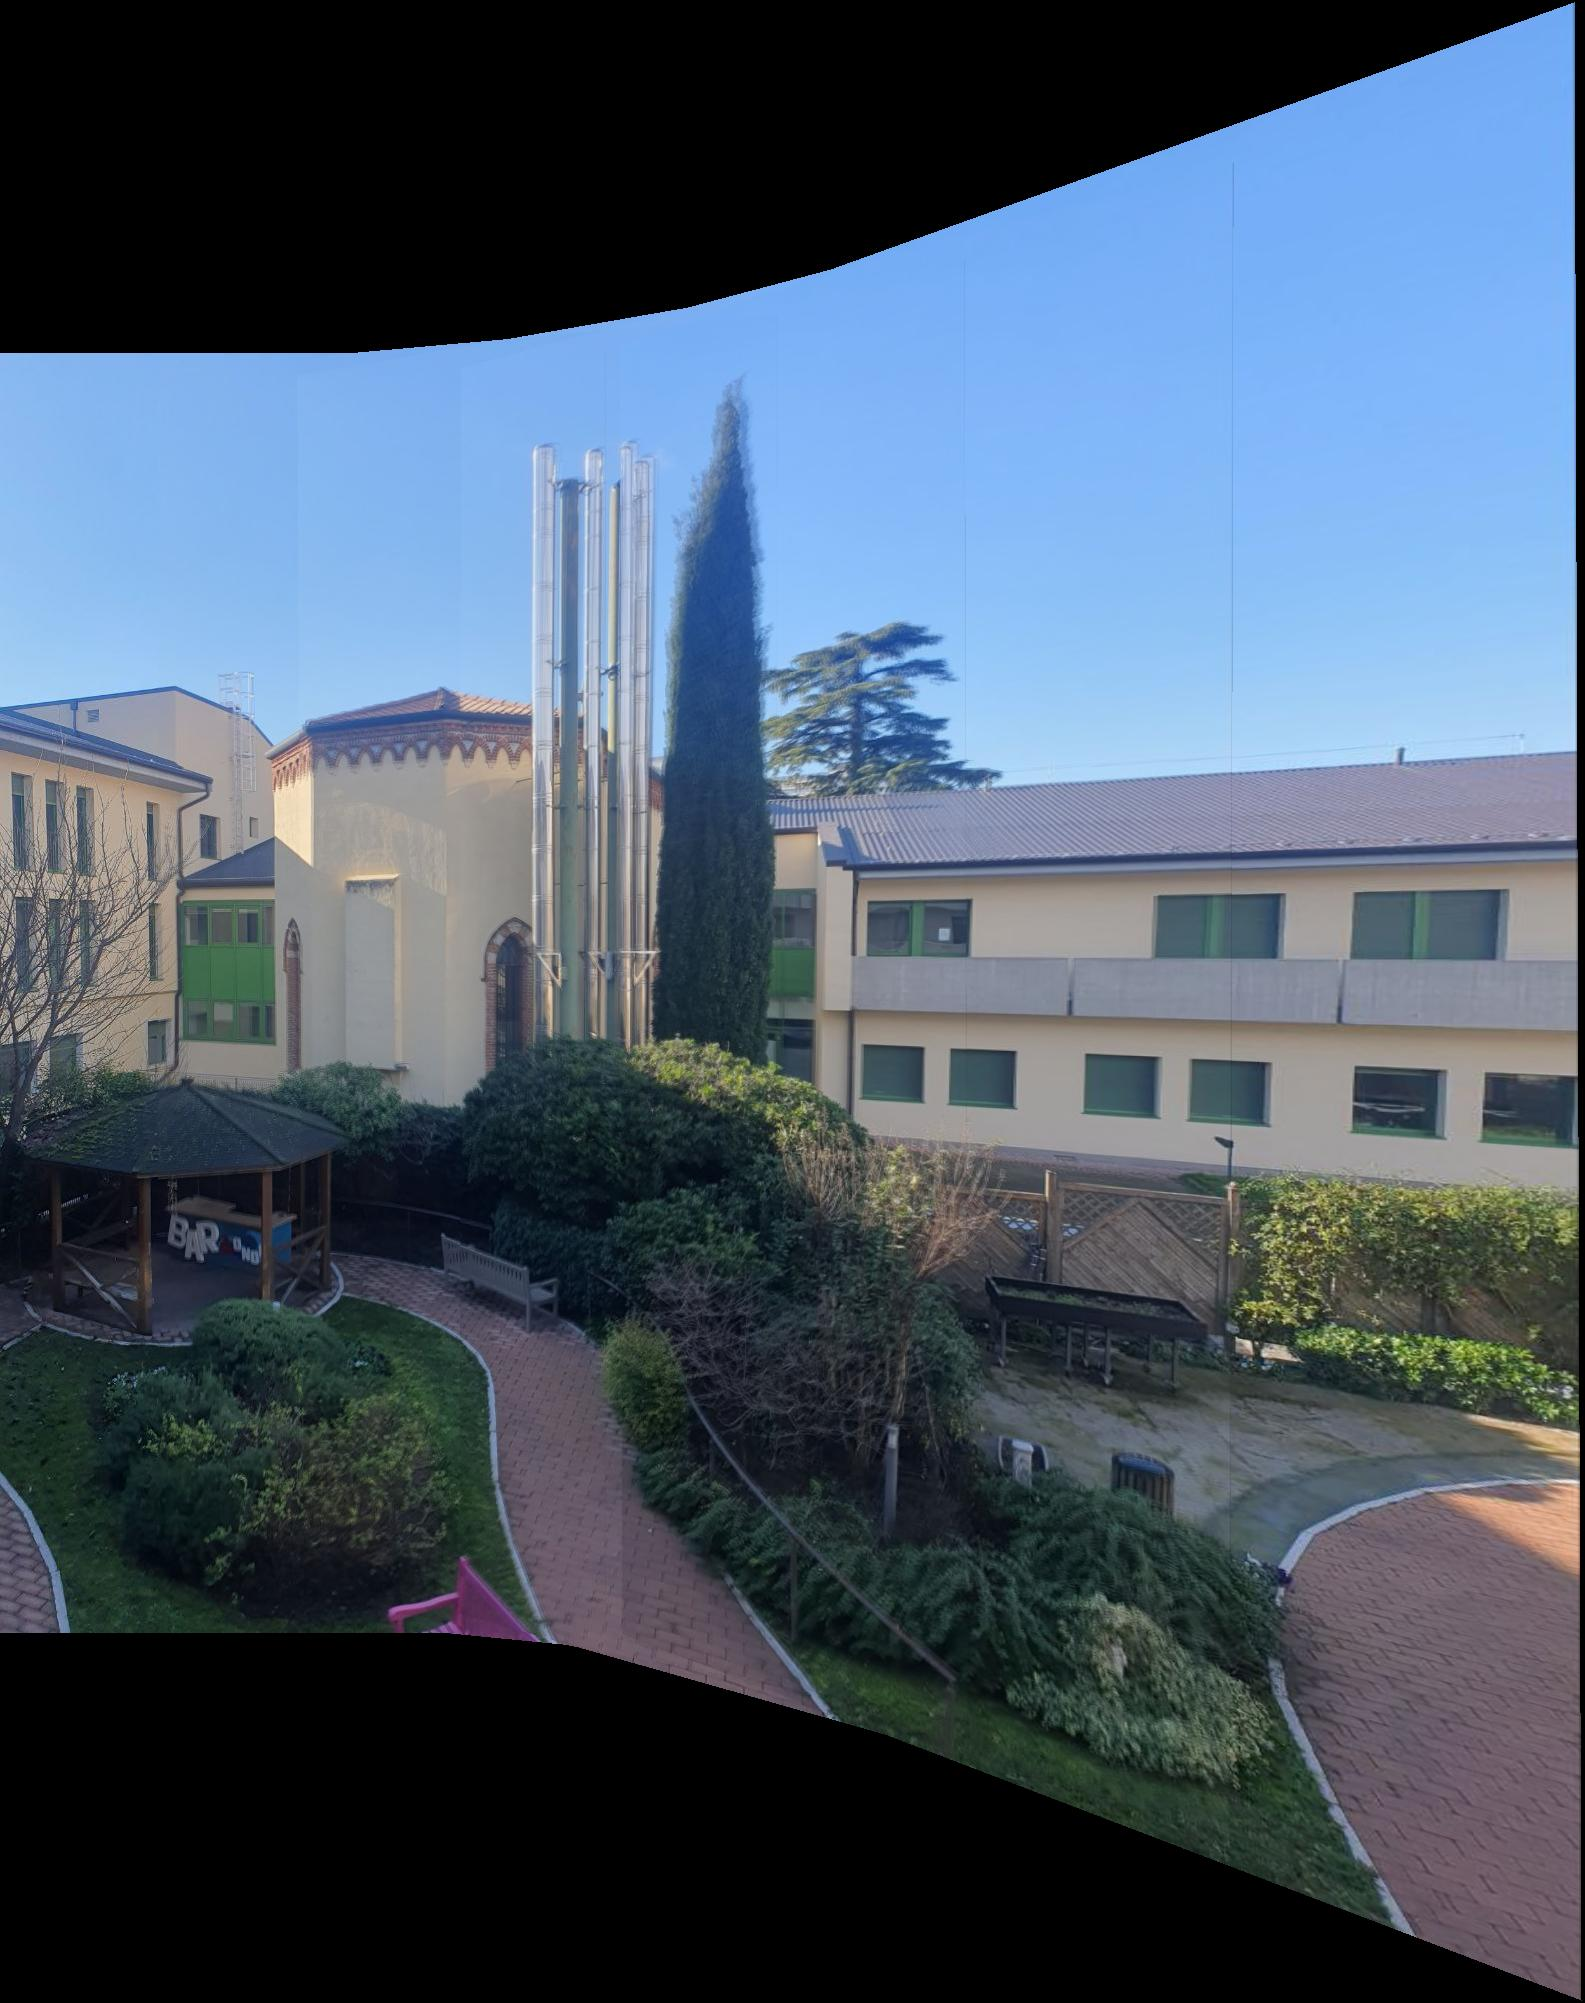
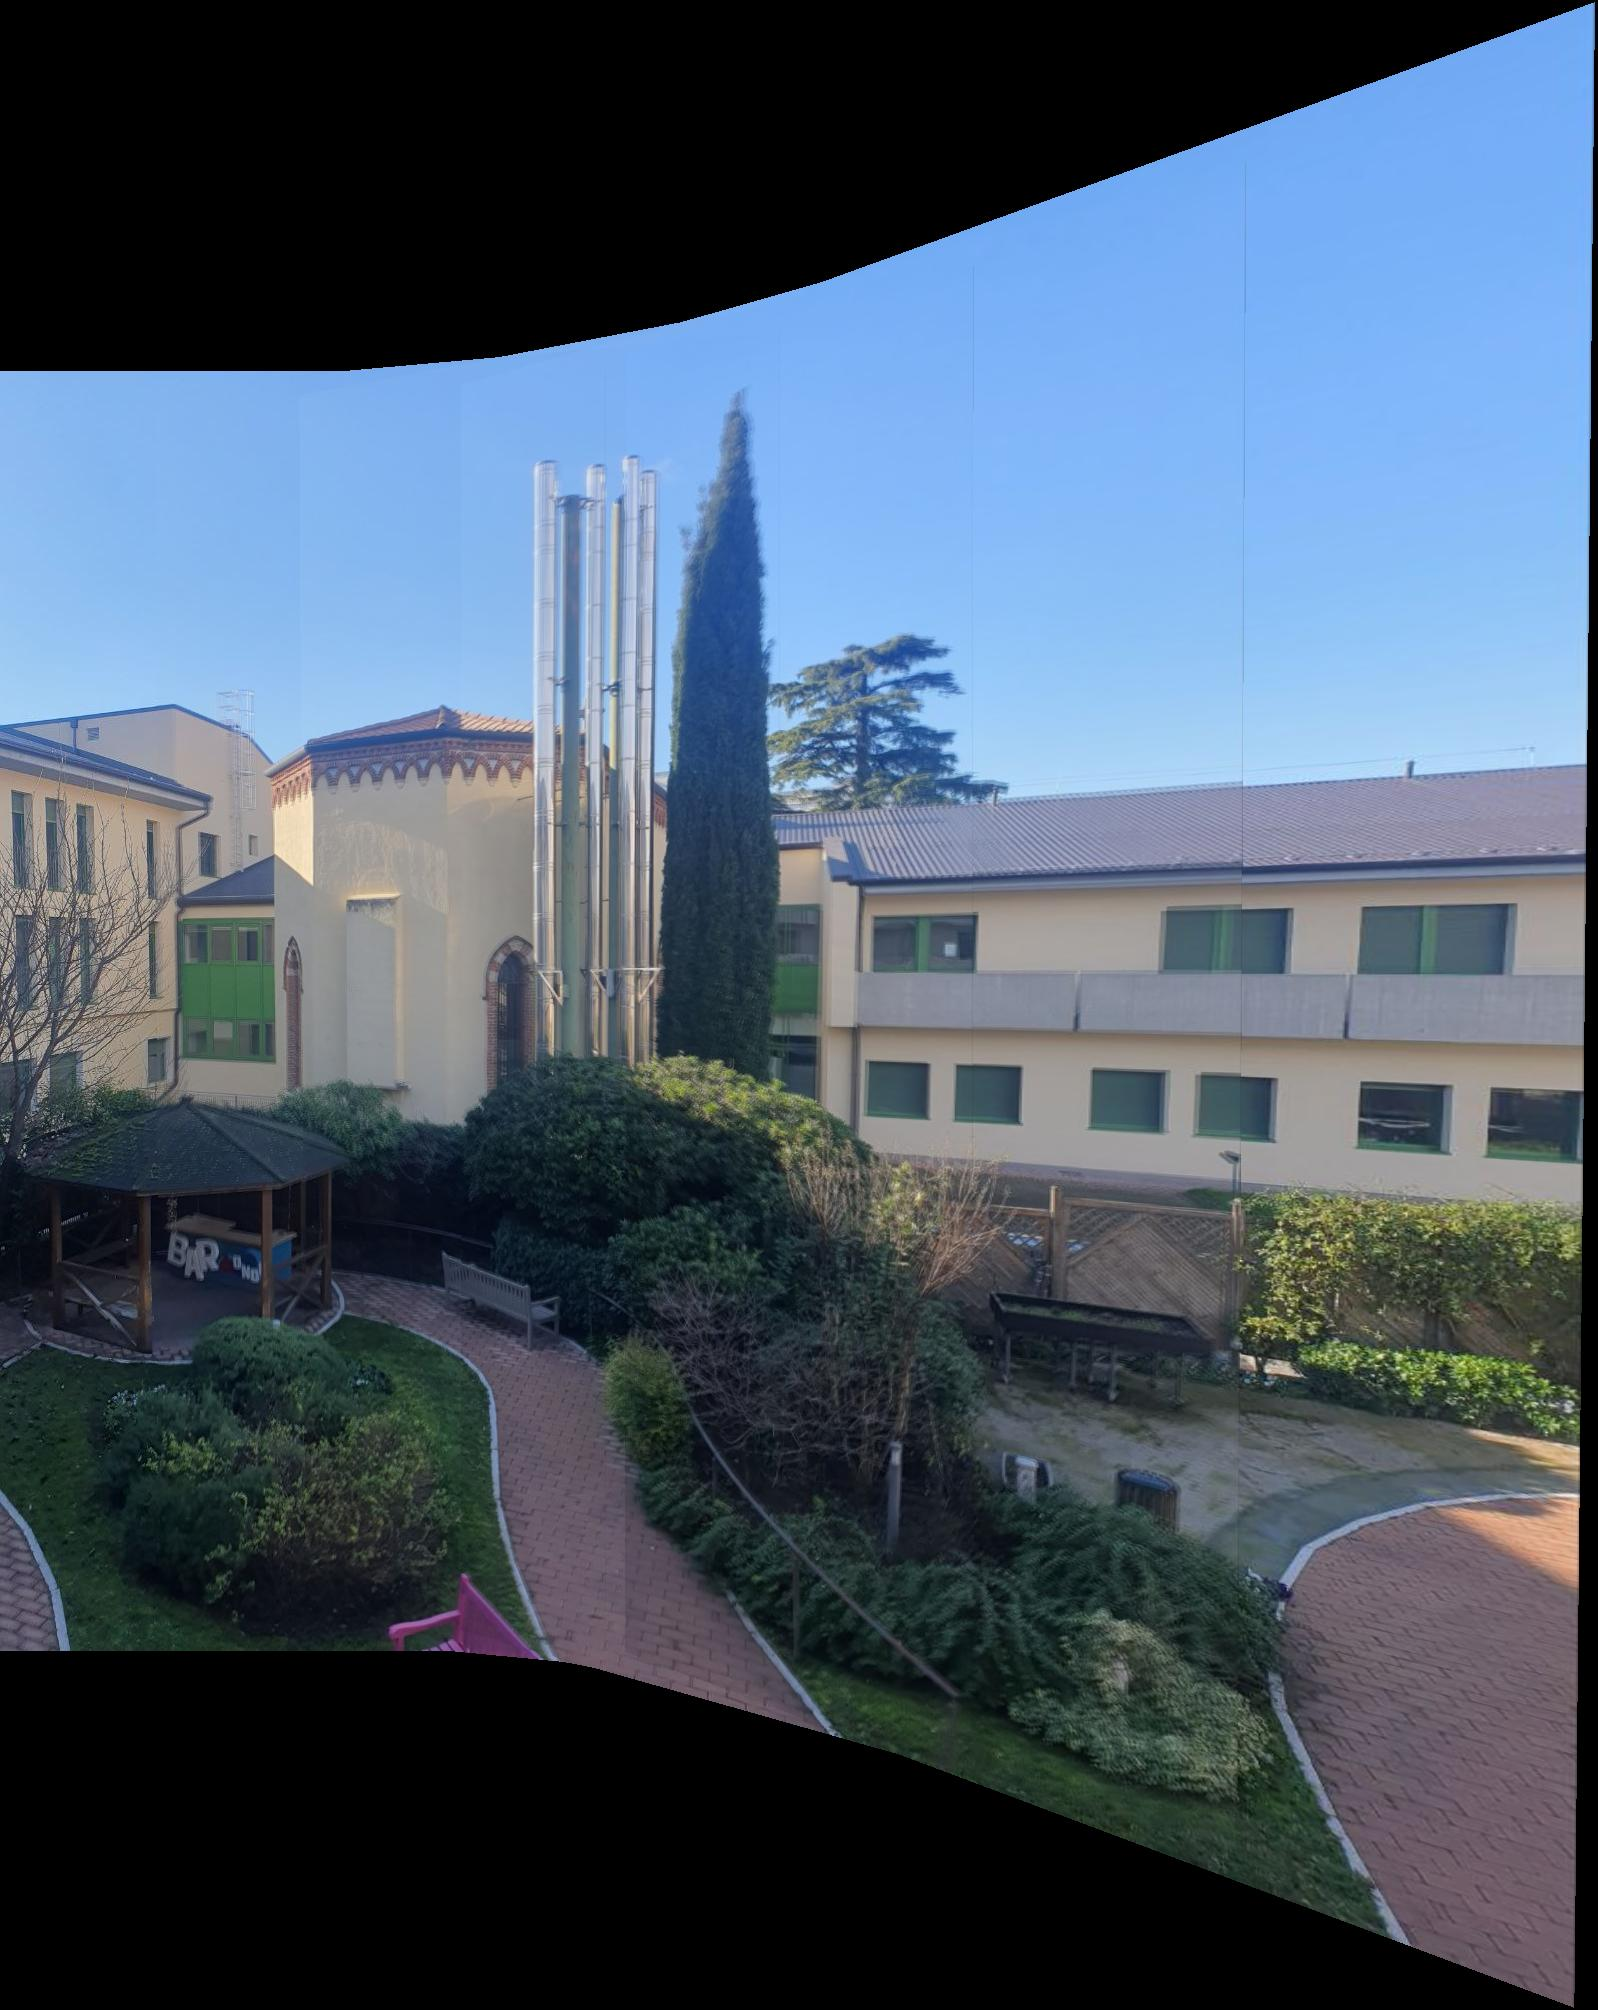
Image blending

diff --git a/scripts/image_merge.m b/scripts/image_merge.m
@@ -7,9 +7,10 @@
 %   Author: Lorenzo Busellato, VR472249, 2023
 %
 %--------------------------------------------------------------------------
-function I = image_merge(img1_rgb, img2_rgb, H)
+function I = image_merge(img1_rgb, img2_rgb, H, params)
     % Loop over the three image channels
     for i = 1:size(img1_rgb,3)
+        % Get the i-th color channel
         img1 = img1_rgb(:,:,i);
         img2 = img2_rgb(:,:,i);
         % Warping the second image to the plane of the first one
@@ -21,42 +22,41 @@ function I = image_merge(img1_rgb, img2_rgb, H)
         bb_ij = [bb(2); bb(1); bb(4); bb(3)];
         % Group the coordinates of the warped and original images' bbs
         corners = [bb_ij [0; 0; size(img1)']];
-        % Compute the minimum and maximum coordinates of the two bbs to get the
-        % coordinates of the total bb
+        % Compute the minimum and maximum coordinates of the two bbs to get the coordinates of the total bb
         bb_mos = [min(corners(1, :)); min(corners(2, :));
             max(corners(3, :)); max(corners(4, :))];
-        % Apply positive offset to remove negative coordinates
+        % Offset of the first image within the mosaic
         offs = [abs(min(corners(1, :))); abs(min(corners(2, :)))];
         sz_mos = bb_mos + [offs; offs];
         % Create the two parts of the mosaicing
         mosaic_ref = zeros(sz_mos(3), sz_mos(4));
         mosaic_mov = mosaic_ref;
-        % Place the original image and the warped image into the two parts
-        % according to the offsets
+        % Place the original image and the warped image into the two parts of the mosaic
         if offs(1) > 0
             if offs(2) > 0
-                mosaic_ref(offs(1):(size(img1,1)+offs(1)-1),offs(2):(size(img1,2)+offs(2)-1))=img1(:,:);
-                mosaic_mov(1:(size(img2_warp,1)),1:size(img2_warp,2))=img2_warp(:,:);
+                mosaic_ref(offs(1):(size(img1,1)+offs(1)-1),offs(2):(size(img1,2)+offs(2)-1))=img1;
+                mosaic_mov(1:(size(img2_warp,1)),1:size(img2_warp,2))=img2_warp;
             else
-                mosaic_ref(offs(1):(size(img1,1)+offs(1)-1),1:size(img1,2))=img1(:,:);
-                mosaic_mov(1:size(img2_warp,1),abs(bb_ij(2)):(size(img2_warp,2)+abs(bb_ij(2))-1))=img2_warp(:,:);
+                mosaic_ref(offs(1):(size(img1,1)+offs(1)-1),1:size(img1,2))=img1;
+                mosaic_mov(1:size(img2_warp,1),abs(bb_ij(2)):(size(img2_warp,2)+abs(bb_ij(2))-1))=img2_warp;
             end
         else
             if offs(2) > 0
-                mosaic_ref(1:size(img1,1),offs(2):(size(img1,2)+offs(2)-1))=img1(:,:);
-                mosaic_mov(bb_ij(1):(size(img2_warp,1)+bb_ij(1)-1),1:size(img2_warp,2))=img2_warp(:,:);
+                mosaic_ref(1:size(img1,1),offs(2):(size(img1,2)+offs(2)-1))=img1;
+                mosaic_mov(bb_ij(1):(size(img2_warp,1)+bb_ij(1)-1),1:size(img2_warp,2))=img2_warp;
             else
-                mosaic_ref(1:size(img1,1),1:size(img1,2))=img1(:,:);
-                mosaic_mov(bb_ij(1):(size(img2_warp,1)+bb_ij(1)-1),bb_ij(2):(size(img2_warp,2)+bb_ij(2)-1))=img2_warp(:,:);
+                mosaic_ref(1:size(img1,1),1:size(img1,2))=img1;
+                mosaic_mov(bb_ij(1):(size(img2_warp,1)+bb_ij(1)-1),bb_ij(2):(size(img2_warp,2)+bb_ij(2)-1))=img2_warp;
             end
         end
-        % Create a binary mask to get the overlapping between the images
+        % Compose the images
+        tmp = mosaic_ref + mosaic_mov;
+        % Get a mask for the overlapping part
         mask_ref = mosaic_ref ~= 0;
         mask_mov = mosaic_mov ~= 0;
         mask = mask_ref & mask_mov;
-        tmp = mosaic_ref + mosaic_mov;
-        % Blending by averaging pixel values in the overlap region
-        tmp(mask) = tmp(mask) * 0.5;
+        % Blend the overlap by taking the weighted average of the images intensities
+        tmp(mask) = (1-params.alpha).*mosaic_ref(mask) + params.alpha.*mosaic_mov(mask);
         I(:,:,i) = tmp;
     end
 end

diff --git a/scripts/ransac_homography.m b/scripts/ransac_homography.m
@@ -19,7 +19,7 @@ function H = ransac_homography(feat1, feat2, matches, params)
     f = waitbar(0, 'RANSAC - homograpy'); % Progress bar
     for i = 1:params.ransac_iter
         waitbar(i/params.ransac_iter, f, sprintf('RANSAC - homography: %d %%', floor(i/params.ransac_iter*100)));
-        % Pick 4 random features
+        % Pick 4 random features and correspondences
         r1 = ceil(rand*length(matches));
         r2 = ceil(rand*length(matches));
         r3 = ceil(rand*length(matches));

diff --git a/scripts/mosaicing.m b/scripts/mosaicing.m
@@ -45,7 +45,7 @@ function mosaic = mosaicing(params)
         % Robust homography computation with RANSAC
         H = ransac_homography(feat1, feat2, matches, params);
         % Merge the images
-        mosaic = image_merge(mosaic, img2_rgb, H);
+        mosaic = image_merge(mosaic, img2_rgb, H, params);
     end
     mosaic = uint8(mosaic);
     % Save the result

diff --git a/main.m b/main.m
@@ -25,9 +25,11 @@ addpath(genpath("mosaics/"));
 params.set = 1;
 % RANSAC
 params.ransac_thresh = 0.01;
-params.ransac_iter = 750;
+params.ransac_iter = 200;
 % HOMOGRAPHY
-params.pixel_tolerance = 3;
+params.pixel_tolerance = 5;
+% IMAGE BLENDING
+params.alpha = 0.5;
 
 %% MOSAICING
 
